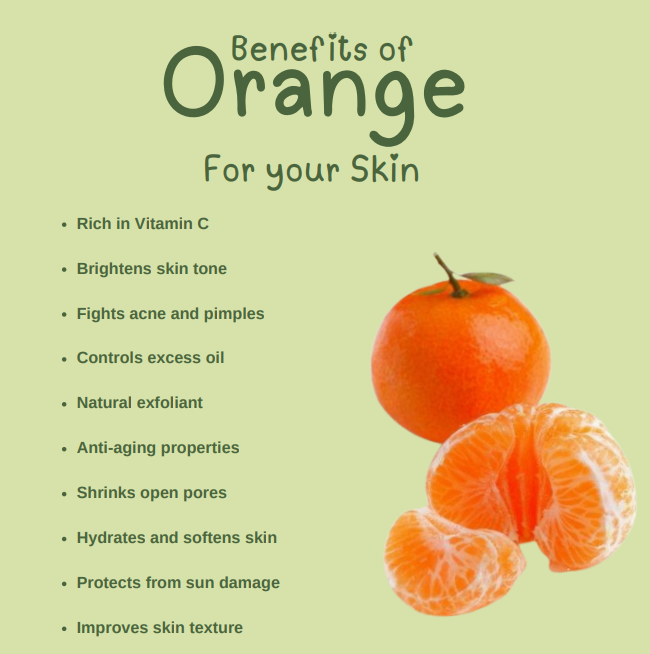
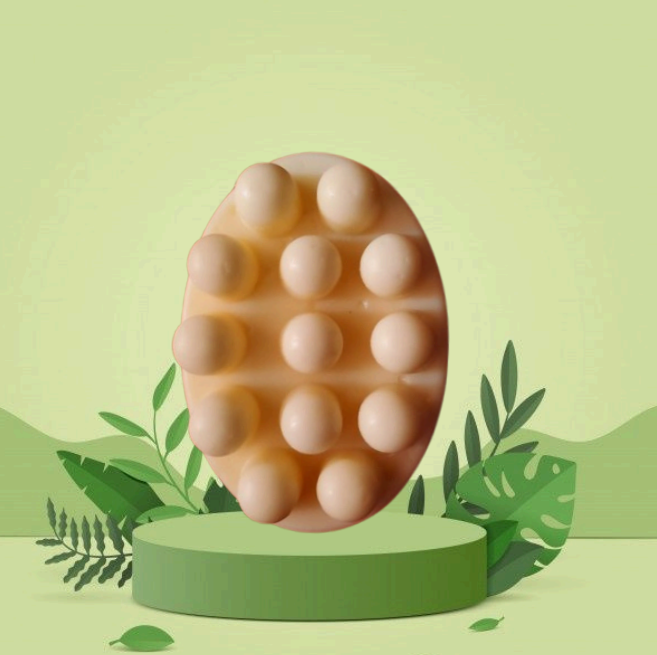
.

diff --git a/src/pages/Shop.tsx b/src/pages/Shop.tsx
@@ -62,17 +62,26 @@ function ProductModal({
 
   return (
     <div
-      className="fixed inset-0 z-50 bg-black/70 backdrop-blur-sm flex items-end md:items-center justify-center"
+      className="fixed inset-0 z-[60] bg-black/70 backdrop-blur-sm flex items-end md:items-center justify-center md:p-6"
       onClick={onClose}
     >
-      {/* Modal Container */}
+      {/* ═══════════════════════════════════════════════════════
+          MOBILE  — full-screen stacked layout
+          DESKTOP — centered two-column dialog
+         ═══════════════════════════════════════════════════════ */}
       <div
-        className="relative w-full md:max-w-4xl bg-background md:bg-card md:rounded-3xl md:shadow-2xl flex flex-col overflow-hidden"
-        style={{ maxHeight: "100dvh", height: "100dvh" }}
+        className={[
+          "relative w-full bg-background flex flex-col overflow-hidden",
+          // mobile: full-screen
+          "h-dvh max-h-dvh",
+          // desktop: compact centered dialog, two-column
+          "md:h-auto md:max-h-[90vh] md:max-w-5xl md:flex-row md:rounded-3xl md:shadow-2xl md:border md:border-border/50",
+        ].join(" ")}
         onClick={(e) => e.stopPropagation()}
       >
-        {/* ── Sticky header bar (clears navbar) ── */}
-        <div className="flex-shrink-0 h-14 bg-background/95 backdrop-blur-md border-b border-border/30 flex items-center px-3 gap-3 z-30">
+
+        {/* ── Mobile header bar (hidden on desktop) ── */}
+        <div className="md:hidden flex-shrink-0 h-14 bg-background/95 backdrop-blur-md border-b border-border/30 flex items-center px-3 gap-3 z-30">
           <button
             onClick={onClose}
             className="w-9 h-9 flex items-center justify-center rounded-full bg-muted/60 text-foreground hover:bg-muted transition"
@@ -87,17 +96,16 @@ function ProductModal({
           )}
         </div>
 
-        {/* ── Scrollable Body ── */}
-        <div ref={scrollRef} className="flex-1 overflow-y-auto overscroll-contain pb-28 md:pb-24" style={{ WebkitOverflowScrolling: "touch" }}>
+        {/* ── LEFT: Image panel ── */}
+        <div className="md:w-[48%] md:flex-shrink-0 md:flex md:flex-col md:border-r md:border-border/30 bg-muted/5">
 
-          {/* ── Image Gallery ── */}
+          {/* Image viewer */}
           <div
-            className="relative bg-muted/10 select-none"
+            className="relative select-none flex-shrink-0"
             style={{ aspectRatio: "1 / 1" }}
             onTouchStart={handleTouchStart}
             onTouchEnd={handleTouchEnd}
           >
-            {/* Badge inside gallery (since header bar handles it on mobile) */}
             <img
               key={imgIdx}
               src={product.images[imgIdx]}
@@ -106,7 +114,7 @@ function ProductModal({
               style={{ animation: "fadeIn 0.25s ease" }}
             />
 
-            {/* Nav arrows — desktop only */}
+            {/* Prev/Next — desktop */}
             {total > 1 && (
               <>
                 <button
@@ -124,9 +132,9 @@ function ProductModal({
               </>
             )}
 
-            {/* Dot indicators */}
+            {/* Dot indicators — mobile only */}
             {total > 1 && (
-              <div className="absolute bottom-3 left-1/2 -translate-x-1/2 flex gap-1.5">
+              <div className="md:hidden absolute bottom-3 left-1/2 -translate-x-1/2 flex gap-1.5">
                 {product.images.map((_, i) => (
                   <button
                     key={i}
@@ -137,17 +145,17 @@ function ProductModal({
               </div>
             )}
 
-            {/* Badge */}
+            {/* Badge — desktop overlay on image */}
             {product.badge && (
-              <div className="absolute top-3 right-3 z-20 flex items-center gap-1 px-2.5 py-1 rounded-full bg-primary text-primary-foreground text-[10px] font-bold uppercase tracking-widest shadow">
+              <div className="hidden md:flex absolute top-3 left-3 z-20 items-center gap-1 px-2.5 py-1 rounded-full bg-primary text-primary-foreground text-[10px] font-bold uppercase tracking-widest shadow">
                 <Star className="w-2.5 h-2.5" fill="currentColor" />{product.badge}
               </div>
             )}
           </div>
 
-          {/* ── Thumbnail strip ── */}
+          {/* Thumbnail strip */}
           {total > 1 && (
-            <div className="flex gap-2 px-4 py-2.5 overflow-x-auto scrollbar-none border-b border-border/30">
+            <div className="flex gap-2 px-4 py-2.5 overflow-x-auto scrollbar-none border-t border-border/30">
               {product.images.map((img, i) => (
                 <button
                   key={i}
@@ -159,9 +167,23 @@ function ProductModal({
               ))}
             </div>
           )}
+        </div>
 
-          {/* ── Product Info ── */}
-          <div className="px-4 pt-4 pb-2 flex flex-col gap-3">
+        {/* ── RIGHT: Product details (scrollable) ── */}
+        <div
+          ref={scrollRef}
+          className="flex-1 overflow-y-auto overscroll-contain pb-24"
+          style={{ WebkitOverflowScrolling: "touch" }}
+        >
+          {/* Desktop close button */}
+          <button
+            onClick={onClose}
+            className="hidden md:flex absolute top-4 right-4 z-30 w-9 h-9 items-center justify-center rounded-full bg-muted/60 text-foreground hover:bg-muted transition"
+          >
+            <span className="text-lg leading-none">✕</span>
+          </button>
+
+          <div className="px-5 md:px-7 pt-5 md:pt-6 pb-4 flex flex-col gap-4">
 
             {/* Name & subtitle */}
             <div>
@@ -174,13 +196,13 @@ function ProductModal({
               <p className="text-sm text-primary/80 font-medium mt-0.5">{product.subtitle}</p>
             </div>
 
-            {/* Price row */}
+            {/* Price */}
             <div className="flex items-baseline gap-2.5 flex-wrap">
               <span className="text-3xl font-bold text-foreground">₹{selectedVariant.price}</span>
               <span className="text-sm text-muted-foreground font-medium">for {selectedVariant.label}</span>
             </div>
 
-            {/* ── Size/Variant Selector ── */}
+            {/* Size selector */}
             <div>
               <p className="text-sm font-semibold text-foreground mb-2">Select size</p>
               <div className="flex flex-wrap gap-2">
@@ -188,10 +210,11 @@ function ProductModal({
                   <button
                     key={i}
                     onClick={() => setVariantIdx(i)}
-                    className={`px-4 py-2 rounded-lg border-2 text-sm font-semibold transition-all duration-200 ${i === variantIdx
-                      ? "border-primary bg-primary/5 text-primary shadow-sm"
-                      : "border-border text-muted-foreground hover:border-primary/40"
-                      }`}
+                    className={`px-4 py-2 rounded-lg border-2 text-sm font-semibold transition-all duration-200 ${
+                      i === variantIdx
+                        ? "border-primary bg-primary/5 text-primary shadow-sm"
+                        : "border-border text-muted-foreground hover:border-primary/40"
+                    }`}
                   >
                     {v.label}
                   </button>
@@ -199,53 +222,58 @@ function ProductModal({
               </div>
             </div>
 
-            {/* ── Trust Badges ── */}
-            <div className="flex items-center justify-around py-3 border-y border-border/30 mt-1">
-              <div className="flex flex-col items-center gap-1 text-muted-foreground">
+            {/* Trust badges */}
+            <div className="flex items-center justify-around py-3 border-y border-border/30">
+              <div className="flex flex-col items-center gap-1">
                 <Award className="w-6 h-6 text-primary/60" />
-                <span className="text-[10px] font-semibold text-center leading-tight">Premium<br />Quality</span>
+                <span className="text-[10px] font-semibold text-muted-foreground text-center leading-tight">Premium<br />Quality</span>
               </div>
-              <div className="flex flex-col items-center gap-1 text-muted-foreground">
+              <div className="flex flex-col items-center gap-1">
                 <span className="text-2xl">🇮🇳</span>
-                <span className="text-[10px] font-semibold text-center leading-tight">Made<br />In India</span>
+                <span className="text-[10px] font-semibold text-muted-foreground text-center leading-tight">Made<br />In India</span>
               </div>
-              <div className="flex flex-col items-center gap-1 text-muted-foreground">
+              <div className="flex flex-col items-center gap-1">
                 <Shield className="w-6 h-6 text-primary/60" />
-                <span className="text-[10px] font-semibold text-center leading-tight">Secure<br />Checkout</span>
+                <span className="text-[10px] font-semibold text-muted-foreground text-center leading-tight">Secure<br />Checkout</span>
               </div>
-              <div className="flex flex-col items-center gap-1 text-muted-foreground">
+              <div className="flex flex-col items-center gap-1">
                 <BadgeCheck className="w-6 h-6 text-primary/60" />
-                <span className="text-[10px] font-semibold text-center leading-tight">100%<br />Natural</span>
+                <span className="text-[10px] font-semibold text-muted-foreground text-center leading-tight">100%<br />Natural</span>
               </div>
             </div>
 
-            {/* ── Product Details ── */}
+            {/* Description */}
             <div>
               <p className="text-sm font-semibold text-foreground mb-1.5">Product details</p>
               <p className="text-sm text-muted-foreground leading-relaxed">{product.description}</p>
             </div>
 
-            {/* ── Key Benefits ── */}
+            {/* Benefits */}
             <div>
               <p className="text-sm font-semibold text-foreground mb-2">Key Benefits:</p>
               <ul className="flex flex-col gap-1.5">
                 {product.benefits.map((b) => (
-                  <li key={b} className="flex items-center gap-2 text-sm text-muted-foreground">
-                    <Leaf className="w-3.5 h-3.5 text-primary flex-shrink-0" />
-                    <span><strong className="text-foreground font-semibold">{b.split(":")[0]}</strong>{b.includes(":") ? `: ${b.split(":")[1]}` : ""}</span>
+                  <li key={b} className="flex items-start gap-2 text-sm text-muted-foreground">
+                    <Leaf className="w-3.5 h-3.5 text-primary flex-shrink-0 mt-0.5" />
+                    <span>
+                      <strong className="text-foreground font-semibold">{b.split(":")[0]}</strong>
+                      {b.includes(":") ? `: ${b.split(":")[1]}` : ""}
+                    </span>
                   </li>
                 ))}
               </ul>
             </div>
 
-            <div className="text-xs text-muted-foreground mt-1">
+            <div className="text-xs text-muted-foreground">
               Category: <span className="text-foreground font-medium">{product.category}</span>
             </div>
           </div>
         </div>
 
-        {/* ── Sticky Bottom CTA ── */}
-        <div className="absolute bottom-0 left-0 right-0 bg-background/95 backdrop-blur-md border-t border-border/50 px-4 py-3 flex gap-3 safe-bottom">
+        {/* ── Sticky CTA bar ──
+            Mobile: spans full width
+            Desktop: only spans the right column (left: 48%) */}
+        <div className="absolute bottom-0 left-0 right-0 md:left-[48%] bg-background/95 backdrop-blur-md border-t border-border/50 px-4 py-3 flex gap-3 safe-bottom">
           <button
             onClick={() => { onAddToCart(product, variantIdx); onClose(); }}
             className="flex-1 py-3.5 rounded-xl border-2 border-primary text-primary font-bold text-sm tracking-wide transition-all duration-200 hover:bg-primary/5 active:scale-[0.98]"
@@ -297,13 +325,7 @@ function ProductCard({
           alt={product.name}
           className="w-full h-full object-contain p-3 transition-transform duration-500 group-hover:scale-105"
         />
-        {product.images[1] && (
-          <img
-            src={product.images[1]}
-            alt=""
-            className="absolute inset-0 w-full h-full object-contain p-3 opacity-0 group-hover:opacity-100 transition-opacity duration-400"
-          />
-        )}
+
         {/* Price pill */}
         <div className="absolute bottom-2 right-2 px-2.5 py-1 rounded-full bg-background/90 backdrop-blur-sm text-primary text-xs font-bold border border-primary/20 shadow-sm">
           {priceDisplay}
